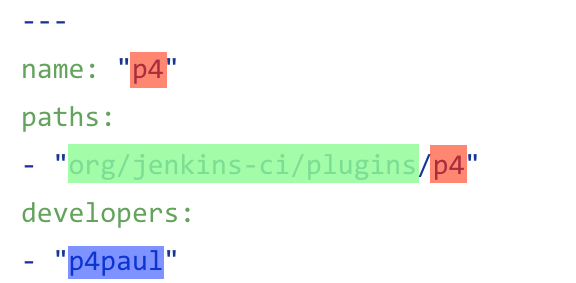
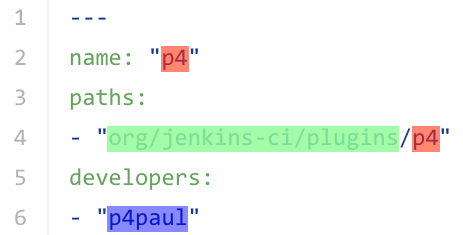
Better sample file

diff --git a/README.md b/README.md
@@ -35,9 +35,9 @@ Example file:
 
 ![](doc/yml-example.png)
 
-* Red: `artifactId`
-* Green: `groupId` (with slashes replacing periods)
-* Blue: Jenkins community account user name
+* Red (lines 2 and 4): `artifactId`
+* Green (line 4): `groupId` (with slashes replacing periods)
+* Blue (line 6): Jenkins community account user name
 
 ### Adding a new plugin
 
